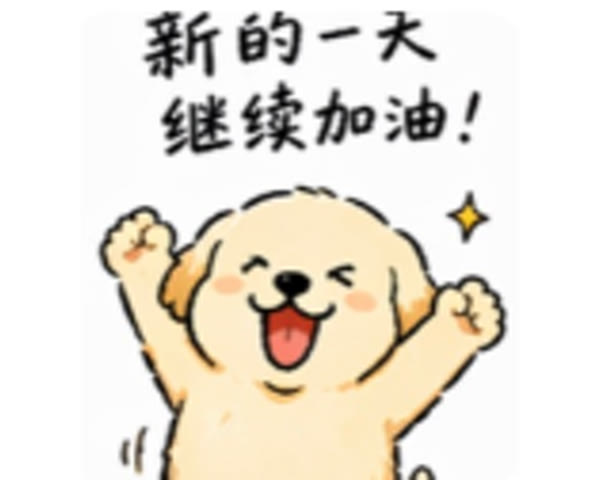
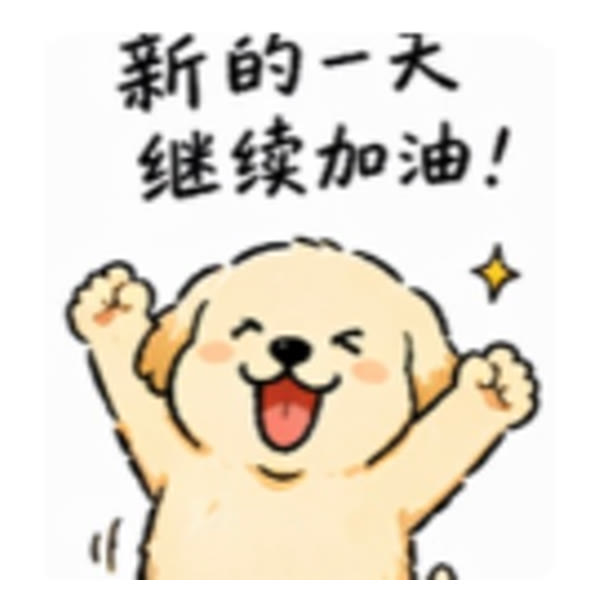
Deploy: 2026-09-25 16:09

Changed region(s): [[0.09, 0.375, 0.93, 1.0], [0.18, 0.0, 0.87, 0.3438]]

diff --git a/index.html b/index.html
@@ -13,15 +13,15 @@
 <meta property="og:description" content="三个孩子每天的在家时间、固定课程、学习任务和复盘总结">
 <meta property="og:site_name" content="三娃任务">
 <meta property="og:locale" content="zh_CN">
-<meta property="og:image" content="https://zxf3246-sudo.github.io/kidsmission/share-cover-2.jpg?v=1">
+<meta property="og:image" content="https://zxf3246-sudo.github.io/kidsmission/share-cover-2.jpg?v=2">
 <meta property="og:image:width" content="600">
-<meta property="og:image:height" content="480">
+<meta property="og:image:height" content="600">
 <meta property="og:url" content="https://zxf3246-sudo.github.io/kidsmission/">
 <!-- Twitter Card (备用) -->
 <meta name="twitter:card" content="summary_large_image">
 <meta name="twitter:title" content="三娃每日任务分配">
 <meta name="twitter:description" content="三个孩子每天的在家时间、固定课程、学习任务和复盘总结">
-<meta name="twitter:image" content="https://zxf3246-sudo.github.io/kidsmission/share-cover-2.jpg?v=1">
+<meta name="twitter:image" content="https://zxf3246-sudo.github.io/kidsmission/share-cover-2.jpg?v=2">
 <!-- 微信专用 -->
 <meta name="format-detection" content="telephone=no">
 <meta name="apple-mobile-web-app-capable" content="yes">
